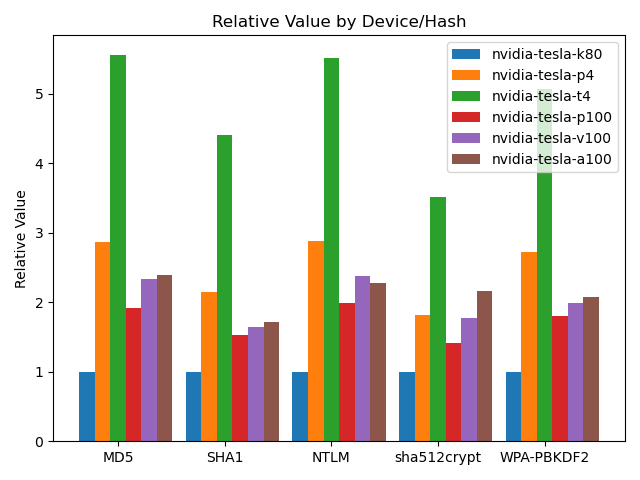
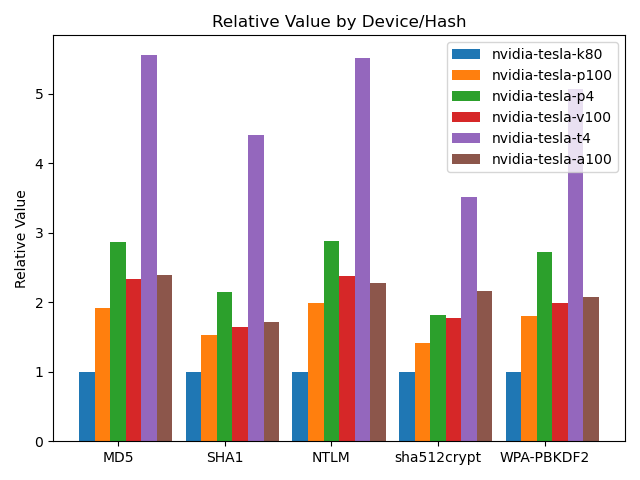
Adjust ordering of results

diff --git a/cloud/thundercrack/benchmarks/speeds.html b/cloud/thundercrack/benchmarks/speeds.html
@@ -1,28 +1,28 @@
-<table><thead><tr><th>Algorithm</th><th colspan="2">nvidia-tesla-k80</th><th colspan="2">nvidia-tesla-p4</th><th colspan="2">nvidia-tesla-t4</th><th colspan="2">nvidia-tesla-p100</th><th colspan="2">nvidia-tesla-v100</th><th colspan="2">nvidia-tesla-a100</th></tr></thead>
+<table><thead><tr><th>Algorithm</th><th colspan="2">nvidia-tesla-k80</th><th colspan="2">nvidia-tesla-p100</th><th colspan="2">nvidia-tesla-p4</th><th colspan="2">nvidia-tesla-v100</th><th colspan="2">nvidia-tesla-t4</th><th colspan="2">nvidia-tesla-a100</th></tr></thead>
 <tbody>
-<tr><td>0 - MD5</td><td>4.3 GH/s</td><td>100.0%</td><td>16.6 GH/s</td><td>382.4%</td><td>18.8 GH/s</td><td>432.9%</td><td>27.1 GH/s</td><td>622.2%</td><td>55.8 GH/s</td><td>1283.7%</td><td>67.8 GH/s</td><td>1559.2%</td></tr>
-<tr><td>100 - SHA1</td><td>1.9 GH/s</td><td>100.0%</td><td>5.6 GH/s</td><td>286.6%</td><td>6.6 GH/s</td><td>342.8%</td><td>9.7 GH/s</td><td>497.9%</td><td>17.5 GH/s</td><td>905.4%</td><td>21.7 GH/s</td><td>1119.1%</td></tr>
-<tr><td>1400 - SHA2-256</td><td>845.7 MH/s</td><td>100.0%</td><td>2.0 GH/s</td><td>238.6%</td><td>2.8 GH/s</td><td>334.8%</td><td>3.3 GH/s</td><td>389.5%</td><td>7.7 GH/s</td><td>904.8%</td><td>9.4 GH/s</td><td>1116.7%</td></tr>
-<tr><td>1700 - SHA2-512</td><td>230.3 MH/s</td><td>100.0%</td><td>672.5 MH/s</td><td>292.0%</td><td>789.9 MH/s</td><td>343.0%</td><td>1.1 GH/s</td><td>463.0%</td><td>2.4 GH/s</td><td>1039.9%</td><td>3.1 GH/s</td><td>1353.0%</td></tr>
-<tr><td>22000 - WPA-PBKDF2-PMKID+EAPOL (Iterations: 4095)</td><td>80.7 kH/s</td><td>100.0%</td><td>292.9 kH/s</td><td>363.0%</td><td>318.3 kH/s</td><td>394.5%</td><td>471.4 kH/s</td><td>584.2%</td><td>883.5 kH/s</td><td>1094.9%</td><td>1.1 MH/s</td><td>1354.3%</td></tr>
-<tr><td>1000 - NTLM</td><td>7.8 GH/s</td><td>100.0%</td><td>29.9 GH/s</td><td>385.2%</td><td>33.3 GH/s</td><td>429.7%</td><td>49.9 GH/s</td><td>643.7%</td><td>101.6 GH/s</td><td>1310.6%</td><td>115.3 GH/s</td><td>1487.3%</td></tr>
-<tr><td>3000 - LM</td><td>3.8 GH/s</td><td>100.0%</td><td>13.1 GH/s</td><td>347.8%</td><td>19.4 GH/s</td><td>514.2%</td><td>25.0 GH/s</td><td>661.9%</td><td>41.5 GH/s</td><td>1098.4%</td><td>65.1 GH/s</td><td>1722.0%</td></tr>
-<tr><td>5500 - NetNTLMv1 / NetNTLMv1+ESS</td><td>5.0 GH/s</td><td>100.0%</td><td>16.1 GH/s</td><td>322.6%</td><td>19.7 GH/s</td><td>395.6%</td><td>26.6 GH/s</td><td>533.0%</td><td>54.9 GH/s</td><td>1100.9%</td><td>70.6 GH/s</td><td>1415.7%</td></tr>
-<tr><td>5600 - NetNTLMv2</td><td>322.1 MH/s</td><td>100.0%</td><td>1.1 GH/s</td><td>349.9%</td><td>1.4 GH/s</td><td>439.4%</td><td>1.8 GH/s</td><td>567.5%</td><td>3.8 GH/s</td><td>1179.7%</td><td>5.0 GH/s</td><td>1538.1%</td></tr>
-<tr><td>1500 - descrypt, DES (Unix), Traditional DES</td><td>161.7 MH/s</td><td>100.0%</td><td>515.3 MH/s</td><td>318.7%</td><td>815.9 MH/s</td><td>504.6%</td><td>1.1 GH/s</td><td>681.5%</td><td>1.7 GH/s</td><td>1033.9%</td><td>2.6 GH/s</td><td>1606.8%</td></tr>
-<tr><td>500 - md5crypt, MD5 (Unix), Cisco-IOS $1$ (MD5) (Iterations: 1000)</td><td>2.5 MH/s</td><td>100.0%</td><td>6.3 MH/s</td><td>251.1%</td><td>8.7 MH/s</td><td>347.6%</td><td>10.4 MH/s</td><td>416.4%</td><td>24.7 MH/s</td><td>989.4%</td><td>31.5 MH/s</td><td>1260.6%</td></tr>
-<tr><td>3200 - bcrypt $2*$, Blowfish (Unix) (Iterations: 32)</td><td>2.5 kH/s</td><td>100.0%</td><td>13.4 kH/s</td><td>540.7%</td><td>26.7 kH/s</td><td>1073.8%</td><td>22.9 kH/s</td><td>922.9%</td><td>78.4 kH/s</td><td>3155.9%</td><td>135.4 kH/s</td><td>5450.9%</td></tr>
-<tr><td>1800 - sha512crypt $6$, SHA512 (Unix) (Iterations: 5000)</td><td>37.9 kH/s</td><td>100.0%</td><td>91.6 kH/s</td><td>241.8%</td><td>103.5 kH/s</td><td>273.0%</td><td>174.6 kH/s</td><td>460.6%</td><td>369.6 kH/s</td><td>975.0%</td><td>535.4 kH/s</td><td>1412.4%</td></tr>
-<tr><td>7500 - Kerberos 5, etype 23, AS-REQ Pre-Auth</td><td>43.1 MH/s</td><td>100.0%</td><td>186.7 MH/s</td><td>432.7%</td><td>295.0 MH/s</td><td>683.8%</td><td>383.9 MH/s</td><td>889.8%</td><td>1.0 GH/s</td><td>2427.2%</td><td>1.8 GH/s</td><td>4281.9%</td></tr>
-<tr><td>13100 - Kerberos 5, etype 23, TGS-REP</td><td>32.3 MH/s</td><td>100.0%</td><td>185.3 MH/s</td><td>573.9%</td><td>291.7 MH/s</td><td>903.4%</td><td>348.8 MH/s</td><td>1080.2%</td><td>1.0 GH/s</td><td>3123.0%</td><td>1.8 GH/s</td><td>5563.8%</td></tr>
-<tr><td>15300 - DPAPI masterkey file v1 (Iterations: 23999)</td><td>15.6 kH/s</td><td>100.0%</td><td>50.2 kH/s</td><td>322.3%</td><td>55.6 kH/s</td><td>356.7%</td><td>80.8 kH/s</td><td>519.0%</td><td>150.9 kH/s</td><td>968.9%</td><td>187.2 kH/s</td><td>1202.0%</td></tr>
-<tr><td>15900 - DPAPI masterkey file v2 (Iterations: 12899)</td><td>8.1 kH/s</td><td>100.0%</td><td>22.1 kH/s</td><td>271.9%</td><td>31.3 kH/s</td><td>385.0%</td><td>36.7 kH/s</td><td>451.0%</td><td>79.9 kH/s</td><td>981.4%</td><td>109.2 kH/s</td><td>1341.5%</td></tr>
-<tr><td>7100 - macOS v10.8+ (PBKDF2-SHA512) (Iterations: 1023)</td><td>104.1 kH/s</td><td>100.0%</td><td>272.5 kH/s</td><td>261.8%</td><td>392.5 kH/s</td><td>377.0%</td><td>442.6 kH/s</td><td>425.2%</td><td>994.6 kH/s</td><td>955.4%</td><td>1.4 MH/s</td><td>1304.0%</td></tr>
-<tr><td>11600 - 7-Zip (Iterations: 16384)</td><td>91.9 kH/s</td><td>100.0%</td><td>217.0 kH/s</td><td>236.0%</td><td>266.6 kH/s</td><td>290.0%</td><td>380.5 kH/s</td><td>413.8%</td><td>757.8 kH/s</td><td>824.2%</td><td>1.1 MH/s</td><td>1218.6%</td></tr>
-<tr><td>12500 - RAR3-hp (Iterations: 262144)</td><td>12.1 kH/s</td><td>100.0%</td><td>20.3 kH/s</td><td>167.6%</td><td>28.1 kH/s</td><td>231.7%</td><td>64.2 kH/s</td><td>528.8%</td><td>102.2 kH/s</td><td>842.3%</td><td>155.4 kH/s</td><td>1280.8%</td></tr>
-<tr><td>13000 - RAR5 (Iterations: 32799)</td><td>10.2 kH/s</td><td>100.0%</td><td>24.5 kH/s</td><td>240.6%</td><td>30.2 kH/s</td><td>297.0%</td><td>39.6 kH/s</td><td>389.3%</td><td>93.2 kH/s</td><td>916.6%</td><td>118.7 kH/s</td><td>1167.8%</td></tr>
-<tr><td>6211 - TrueCrypt RIPEMD160 + XTS 512 bit (Iterations: 1999)</td><td>66.8 kH/s</td><td>100.0%</td><td>177.3 kH/s</td><td>265.3%</td><td>232.1 kH/s</td><td>347.3%</td><td>292.4 kH/s</td><td>437.6%</td><td>669.9 kH/s</td><td>1002.5%</td><td>822.4 kH/s</td><td>1230.8%</td></tr>
-<tr><td>13400 - KeePass 1 (AES/Twofish) and KeePass 2 (AES) (Iterations: 24569)</td><td>10.9 kH/s</td><td>100.0%</td><td>19.0 kH/s</td><td>174.8%</td><td>27.3 kH/s</td><td>251.2%</td><td>67.0 kH/s</td><td>617.1%</td><td>111.2 kH/s</td><td>1024.8%</td><td>139.0 kH/s</td><td>1281.0%</td></tr>
-<tr><td>6800 - LastPass + LastPass sniffed (Iterations: 499)</td><td>651.9 kH/s</td><td>100.0%</td><td>1.5 MH/s</td><td>232.2%</td><td>2.0 MH/s</td><td>304.7%</td><td>2.5 MH/s</td><td>390.4%</td><td>6.0 MH/s</td><td>914.8%</td><td>7.6 MH/s</td><td>1160.0%</td></tr>
-<tr><td>11300 - Bitcoin/Litecoin wallet.dat (Iterations: 200459)</td><td>1.3 kH/s</td><td>100.0%</td><td>3.1 kH/s</td><td>241.5%</td><td>4.1 kH/s</td><td>325.3%</td><td>5.0 kH/s</td><td>389.9%</td><td>11.4 kH/s</td><td>892.3%</td><td>14.4 kH/s</td><td>1129.2%</td></tr>
+<tr><td>0 - MD5</td><td>4.3 GH/s</td><td>100.0%</td><td>27.1 GH/s</td><td>622.2%</td><td>16.6 GH/s</td><td>382.4%</td><td>55.8 GH/s</td><td>1283.7%</td><td>18.8 GH/s</td><td>432.9%</td><td>67.8 GH/s</td><td>1559.2%</td></tr>
+<tr><td>100 - SHA1</td><td>1.9 GH/s</td><td>100.0%</td><td>9.7 GH/s</td><td>497.9%</td><td>5.6 GH/s</td><td>286.6%</td><td>17.5 GH/s</td><td>905.4%</td><td>6.6 GH/s</td><td>342.8%</td><td>21.7 GH/s</td><td>1119.1%</td></tr>
+<tr><td>1400 - SHA2-256</td><td>845.7 MH/s</td><td>100.0%</td><td>3.3 GH/s</td><td>389.5%</td><td>2.0 GH/s</td><td>238.6%</td><td>7.7 GH/s</td><td>904.8%</td><td>2.8 GH/s</td><td>334.8%</td><td>9.4 GH/s</td><td>1116.7%</td></tr>
+<tr><td>1700 - SHA2-512</td><td>230.3 MH/s</td><td>100.0%</td><td>1.1 GH/s</td><td>463.0%</td><td>672.5 MH/s</td><td>292.0%</td><td>2.4 GH/s</td><td>1039.9%</td><td>789.9 MH/s</td><td>343.0%</td><td>3.1 GH/s</td><td>1353.0%</td></tr>
+<tr><td>22000 - WPA-PBKDF2-PMKID+EAPOL (Iterations: 4095)</td><td>80.7 kH/s</td><td>100.0%</td><td>471.4 kH/s</td><td>584.2%</td><td>292.9 kH/s</td><td>363.0%</td><td>883.5 kH/s</td><td>1094.9%</td><td>318.3 kH/s</td><td>394.5%</td><td>1.1 MH/s</td><td>1354.3%</td></tr>
+<tr><td>1000 - NTLM</td><td>7.8 GH/s</td><td>100.0%</td><td>49.9 GH/s</td><td>643.7%</td><td>29.9 GH/s</td><td>385.2%</td><td>101.6 GH/s</td><td>1310.6%</td><td>33.3 GH/s</td><td>429.7%</td><td>115.3 GH/s</td><td>1487.3%</td></tr>
+<tr><td>3000 - LM</td><td>3.8 GH/s</td><td>100.0%</td><td>25.0 GH/s</td><td>661.9%</td><td>13.1 GH/s</td><td>347.8%</td><td>41.5 GH/s</td><td>1098.4%</td><td>19.4 GH/s</td><td>514.2%</td><td>65.1 GH/s</td><td>1722.0%</td></tr>
+<tr><td>5500 - NetNTLMv1 / NetNTLMv1+ESS</td><td>5.0 GH/s</td><td>100.0%</td><td>26.6 GH/s</td><td>533.0%</td><td>16.1 GH/s</td><td>322.6%</td><td>54.9 GH/s</td><td>1100.9%</td><td>19.7 GH/s</td><td>395.6%</td><td>70.6 GH/s</td><td>1415.7%</td></tr>
+<tr><td>5600 - NetNTLMv2</td><td>322.1 MH/s</td><td>100.0%</td><td>1.8 GH/s</td><td>567.5%</td><td>1.1 GH/s</td><td>349.9%</td><td>3.8 GH/s</td><td>1179.7%</td><td>1.4 GH/s</td><td>439.4%</td><td>5.0 GH/s</td><td>1538.1%</td></tr>
+<tr><td>1500 - descrypt, DES (Unix), Traditional DES</td><td>161.7 MH/s</td><td>100.0%</td><td>1.1 GH/s</td><td>681.5%</td><td>515.3 MH/s</td><td>318.7%</td><td>1.7 GH/s</td><td>1033.9%</td><td>815.9 MH/s</td><td>504.6%</td><td>2.6 GH/s</td><td>1606.8%</td></tr>
+<tr><td>500 - md5crypt, MD5 (Unix), Cisco-IOS $1$ (MD5) (Iterations: 1000)</td><td>2.5 MH/s</td><td>100.0%</td><td>10.4 MH/s</td><td>416.4%</td><td>6.3 MH/s</td><td>251.1%</td><td>24.7 MH/s</td><td>989.4%</td><td>8.7 MH/s</td><td>347.6%</td><td>31.5 MH/s</td><td>1260.6%</td></tr>
+<tr><td>3200 - bcrypt $2*$, Blowfish (Unix) (Iterations: 32)</td><td>2.5 kH/s</td><td>100.0%</td><td>22.9 kH/s</td><td>922.9%</td><td>13.4 kH/s</td><td>540.7%</td><td>78.4 kH/s</td><td>3155.9%</td><td>26.7 kH/s</td><td>1073.8%</td><td>135.4 kH/s</td><td>5450.9%</td></tr>
+<tr><td>1800 - sha512crypt $6$, SHA512 (Unix) (Iterations: 5000)</td><td>37.9 kH/s</td><td>100.0%</td><td>174.6 kH/s</td><td>460.6%</td><td>91.6 kH/s</td><td>241.8%</td><td>369.6 kH/s</td><td>975.0%</td><td>103.5 kH/s</td><td>273.0%</td><td>535.4 kH/s</td><td>1412.4%</td></tr>
+<tr><td>7500 - Kerberos 5, etype 23, AS-REQ Pre-Auth</td><td>43.1 MH/s</td><td>100.0%</td><td>383.9 MH/s</td><td>889.8%</td><td>186.7 MH/s</td><td>432.7%</td><td>1.0 GH/s</td><td>2427.2%</td><td>295.0 MH/s</td><td>683.8%</td><td>1.8 GH/s</td><td>4281.9%</td></tr>
+<tr><td>13100 - Kerberos 5, etype 23, TGS-REP</td><td>32.3 MH/s</td><td>100.0%</td><td>348.8 MH/s</td><td>1080.2%</td><td>185.3 MH/s</td><td>573.9%</td><td>1.0 GH/s</td><td>3123.0%</td><td>291.7 MH/s</td><td>903.4%</td><td>1.8 GH/s</td><td>5563.8%</td></tr>
+<tr><td>15300 - DPAPI masterkey file v1 (Iterations: 23999)</td><td>15.6 kH/s</td><td>100.0%</td><td>80.8 kH/s</td><td>519.0%</td><td>50.2 kH/s</td><td>322.3%</td><td>150.9 kH/s</td><td>968.9%</td><td>55.6 kH/s</td><td>356.7%</td><td>187.2 kH/s</td><td>1202.0%</td></tr>
+<tr><td>15900 - DPAPI masterkey file v2 (Iterations: 12899)</td><td>8.1 kH/s</td><td>100.0%</td><td>36.7 kH/s</td><td>451.0%</td><td>22.1 kH/s</td><td>271.9%</td><td>79.9 kH/s</td><td>981.4%</td><td>31.3 kH/s</td><td>385.0%</td><td>109.2 kH/s</td><td>1341.5%</td></tr>
+<tr><td>7100 - macOS v10.8+ (PBKDF2-SHA512) (Iterations: 1023)</td><td>104.1 kH/s</td><td>100.0%</td><td>442.6 kH/s</td><td>425.2%</td><td>272.5 kH/s</td><td>261.8%</td><td>994.6 kH/s</td><td>955.4%</td><td>392.5 kH/s</td><td>377.0%</td><td>1.4 MH/s</td><td>1304.0%</td></tr>
+<tr><td>11600 - 7-Zip (Iterations: 16384)</td><td>91.9 kH/s</td><td>100.0%</td><td>380.5 kH/s</td><td>413.8%</td><td>217.0 kH/s</td><td>236.0%</td><td>757.8 kH/s</td><td>824.2%</td><td>266.6 kH/s</td><td>290.0%</td><td>1.1 MH/s</td><td>1218.6%</td></tr>
+<tr><td>12500 - RAR3-hp (Iterations: 262144)</td><td>12.1 kH/s</td><td>100.0%</td><td>64.2 kH/s</td><td>528.8%</td><td>20.3 kH/s</td><td>167.6%</td><td>102.2 kH/s</td><td>842.3%</td><td>28.1 kH/s</td><td>231.7%</td><td>155.4 kH/s</td><td>1280.8%</td></tr>
+<tr><td>13000 - RAR5 (Iterations: 32799)</td><td>10.2 kH/s</td><td>100.0%</td><td>39.6 kH/s</td><td>389.3%</td><td>24.5 kH/s</td><td>240.6%</td><td>93.2 kH/s</td><td>916.6%</td><td>30.2 kH/s</td><td>297.0%</td><td>118.7 kH/s</td><td>1167.8%</td></tr>
+<tr><td>6211 - TrueCrypt RIPEMD160 + XTS 512 bit (Iterations: 1999)</td><td>66.8 kH/s</td><td>100.0%</td><td>292.4 kH/s</td><td>437.6%</td><td>177.3 kH/s</td><td>265.3%</td><td>669.9 kH/s</td><td>1002.5%</td><td>232.1 kH/s</td><td>347.3%</td><td>822.4 kH/s</td><td>1230.8%</td></tr>
+<tr><td>13400 - KeePass 1 (AES/Twofish) and KeePass 2 (AES) (Iterations: 24569)</td><td>10.9 kH/s</td><td>100.0%</td><td>67.0 kH/s</td><td>617.1%</td><td>19.0 kH/s</td><td>174.8%</td><td>111.2 kH/s</td><td>1024.8%</td><td>27.3 kH/s</td><td>251.2%</td><td>139.0 kH/s</td><td>1281.0%</td></tr>
+<tr><td>6800 - LastPass + LastPass sniffed (Iterations: 499)</td><td>651.9 kH/s</td><td>100.0%</td><td>2.5 MH/s</td><td>390.4%</td><td>1.5 MH/s</td><td>232.2%</td><td>6.0 MH/s</td><td>914.8%</td><td>2.0 MH/s</td><td>304.7%</td><td>7.6 MH/s</td><td>1160.0%</td></tr>
+<tr><td>11300 - Bitcoin/Litecoin wallet.dat (Iterations: 200459)</td><td>1.3 kH/s</td><td>100.0%</td><td>5.0 kH/s</td><td>389.9%</td><td>3.1 kH/s</td><td>241.5%</td><td>11.4 kH/s</td><td>892.3%</td><td>4.1 kH/s</td><td>325.3%</td><td>14.4 kH/s</td><td>1129.2%</td></tr>
 </tbody></table>

diff --git a/cloud/thundercrack/benchmarks/values.html b/cloud/thundercrack/benchmarks/values.html
@@ -1,9 +1,9 @@
 <table><thead><tr><th>Card</th><th>Performance</th><th>Price</th><th>Value</th></tr></thead>
 <tbody>
 <tr><td>nvidia-tesla-k80</td><td>100.0</td><td>$0.45</td><td>1.00</td></tr>
-<tr><td>nvidia-tesla-p4</td><td>309.6</td><td>$0.60</td><td>2.32</td></tr>
-<tr><td>nvidia-tesla-t4</td><td>423.2</td><td>$0.35</td><td>5.44</td></tr>
 <tr><td>nvidia-tesla-p100</td><td>559.1</td><td>$1.46</td><td>1.72</td></tr>
+<tr><td>nvidia-tesla-p4</td><td>309.6</td><td>$0.60</td><td>2.32</td></tr>
 <tr><td>nvidia-tesla-v100</td><td>1237.8</td><td>$2.48</td><td>2.25</td></tr>
+<tr><td>nvidia-tesla-t4</td><td>423.2</td><td>$0.35</td><td>5.44</td></tr>
 <tr><td>nvidia-tesla-a100</td><td>1782.3</td><td>$2.93</td><td>2.74</td></tr>
 </tbody></table>

diff --git a/cloud/thundercrack/benchmarks/analysis.py b/cloud/thundercrack/benchmarks/analysis.py
@@ -6,10 +6,10 @@ import numpy as np
 
 DEVICES = [
         'nvidia-tesla-k80',
-        'nvidia-tesla-p4',
-        'nvidia-tesla-t4',
         'nvidia-tesla-p100',
+        'nvidia-tesla-p4',
         'nvidia-tesla-v100',
+        'nvidia-tesla-t4',
         'nvidia-tesla-a100',
 ]
 
